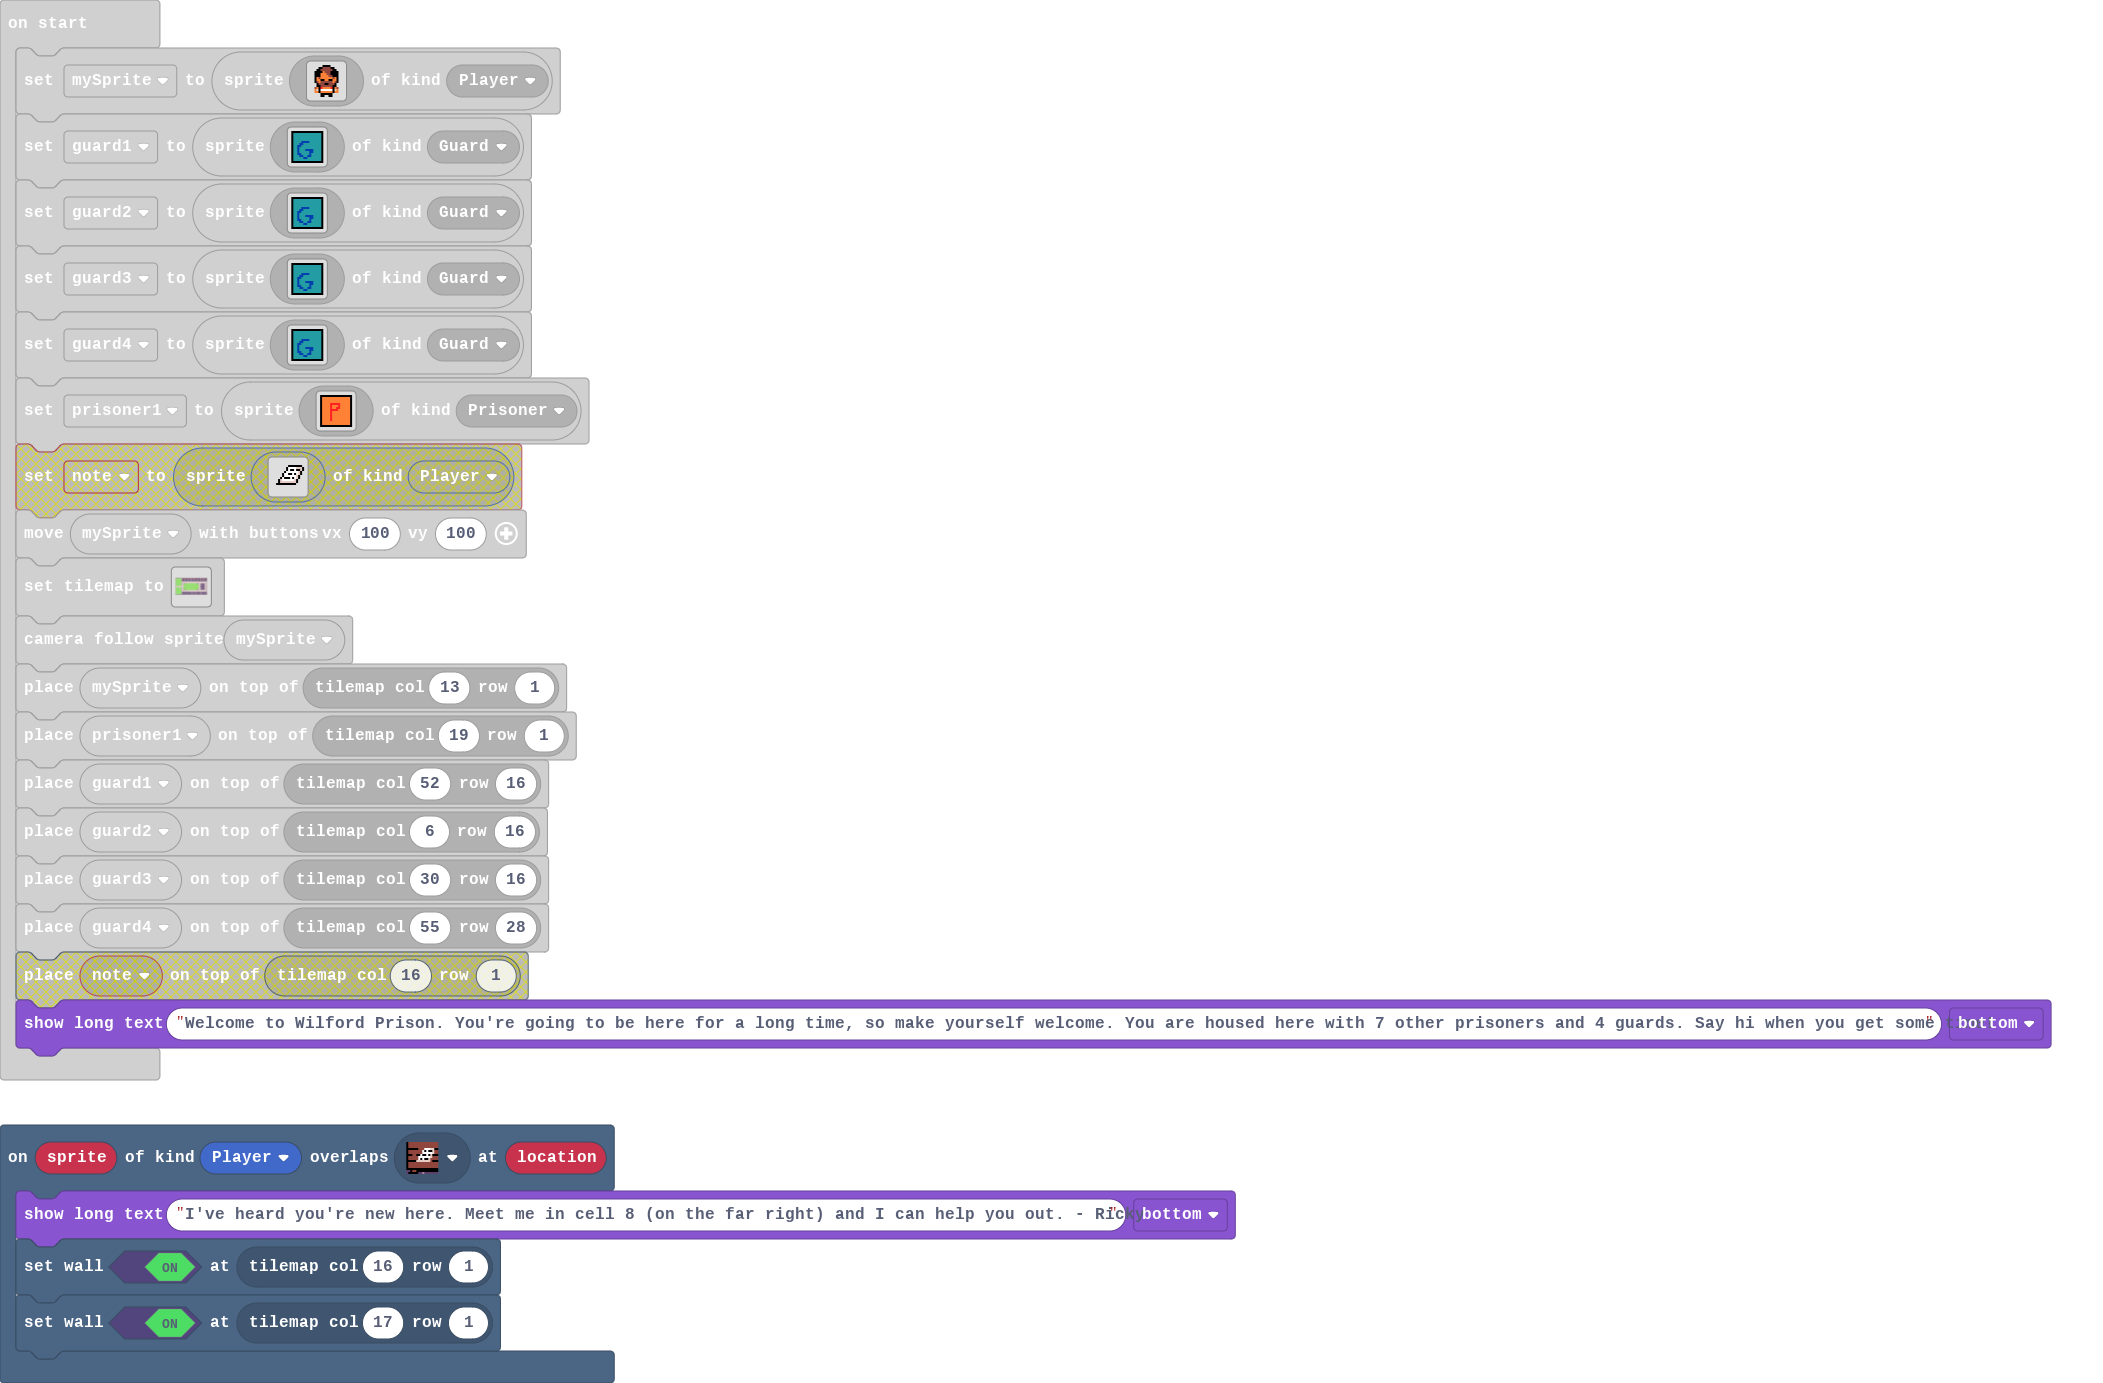
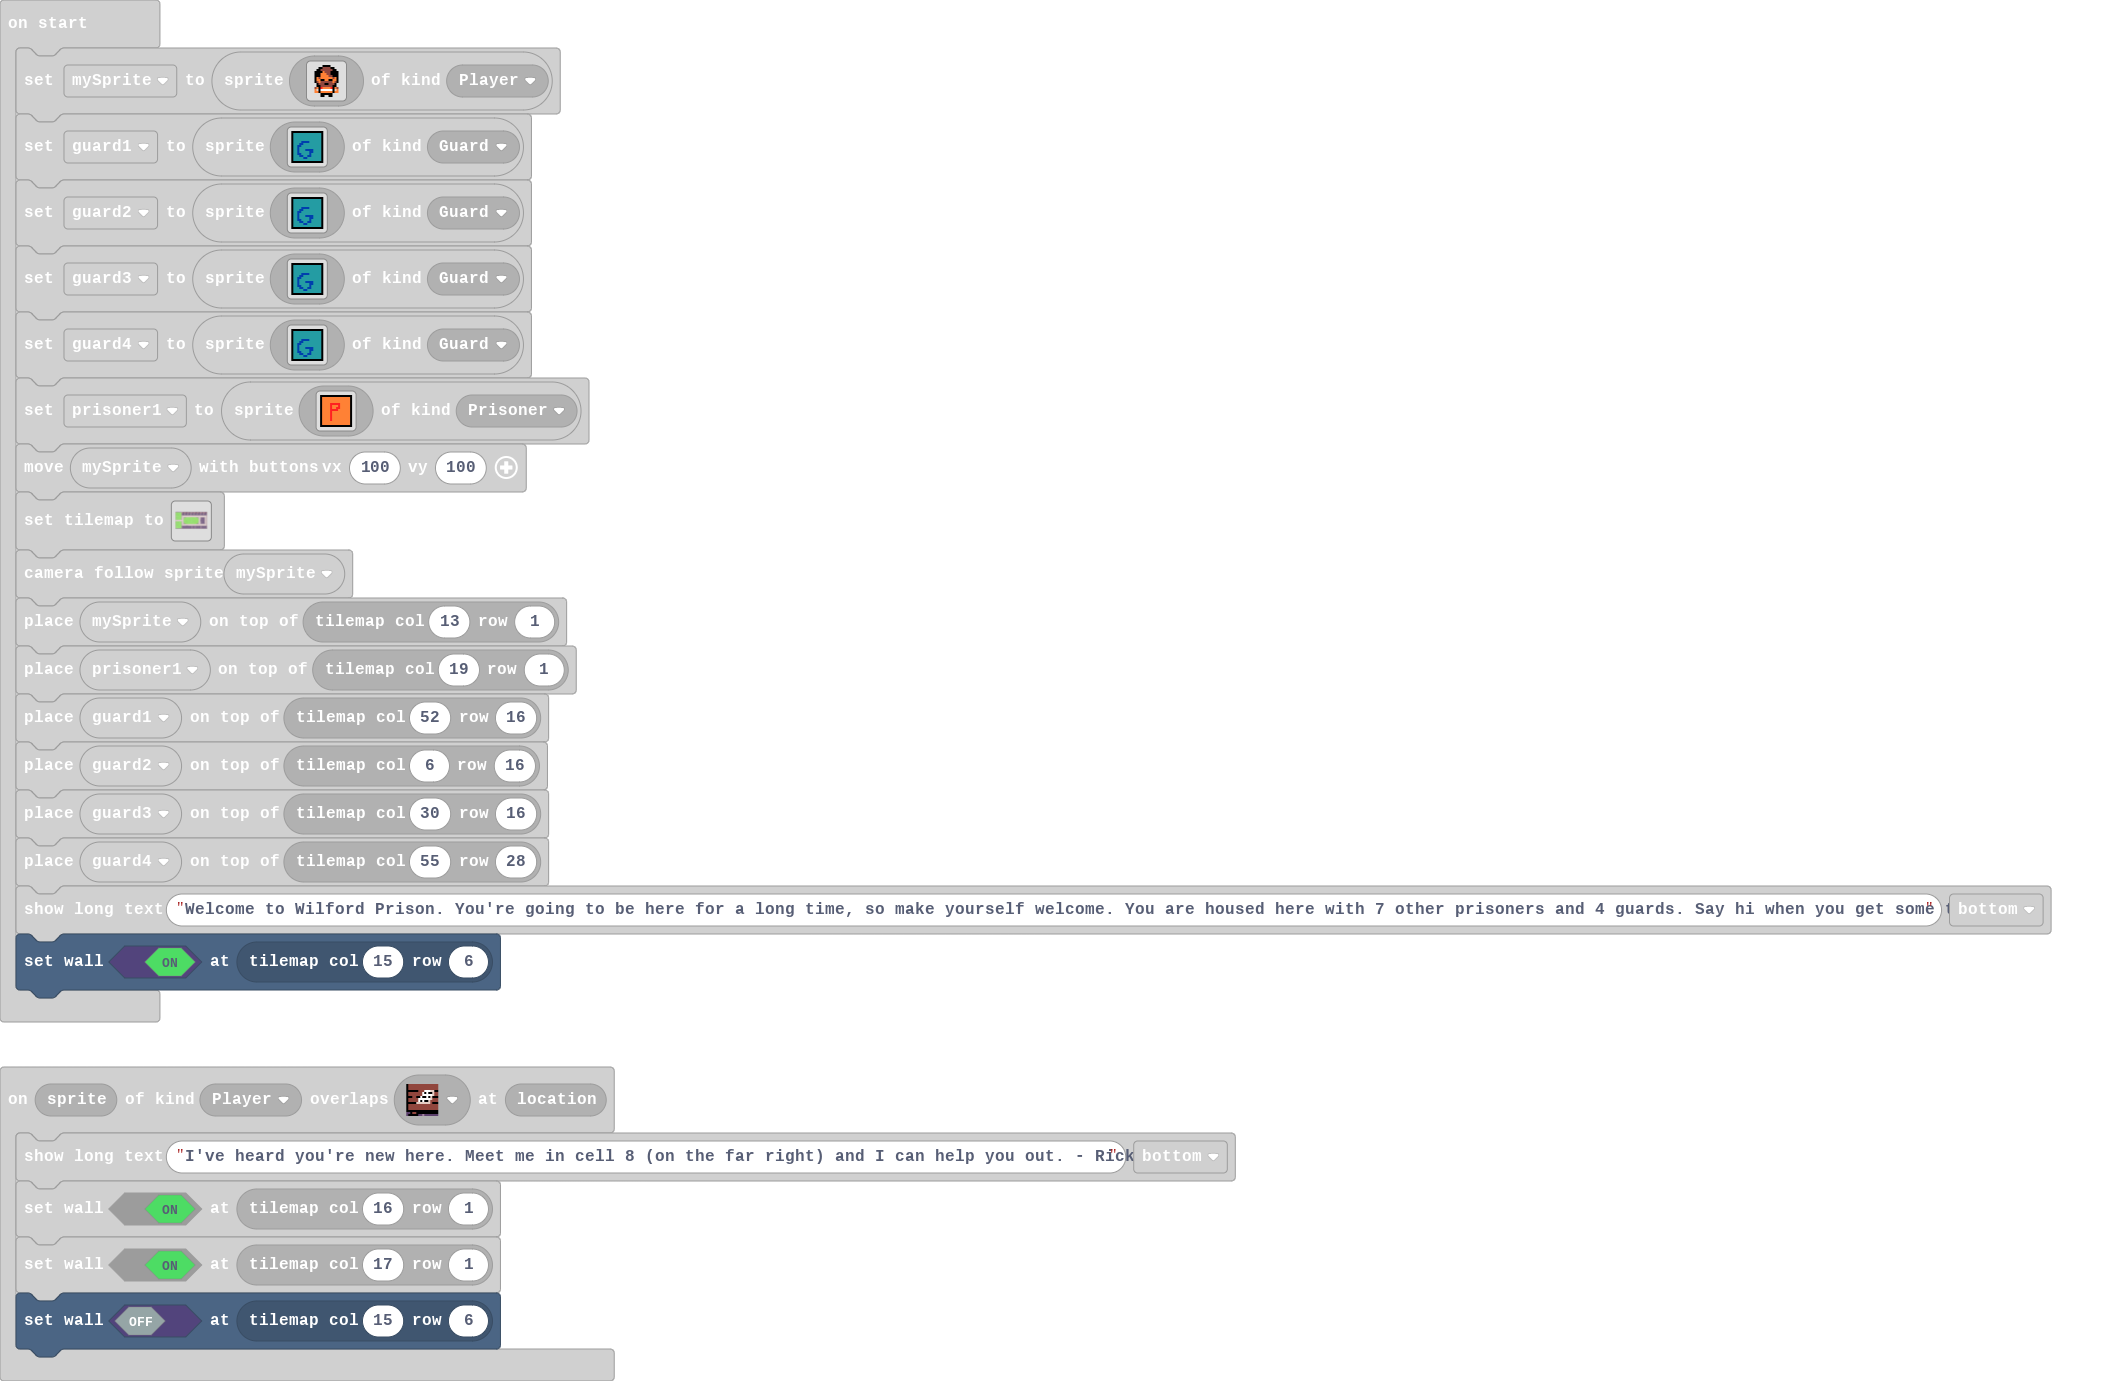
Updates

Changed region(s): [[0.0, 0.3114, 0.9891, 1.0]]

diff --git a/tilemap.g.ts b/tilemap.g.ts
@@ -199,6 +199,25 @@ namespace myTiles {
 . . . . . . . . . . . . . . . . 
 . . . . . . . . . . . . . . . . 
 `, [myTiles.transparency16], TileScale.Sixteen);
+            case "level7":
+            case "level7":return tiles.createTilemap(hex`1000100000000000000000000000000000000000000000000000000000000000000000000000000000000000000000000000000000000000000000000000000000000000000000000000000000000000000000000000000000000000000000000000000000000000000000000000000000000000000000000000000000000000000000000000000000000000000000000000000000000000000000000000000000000000000000000000000000000000000000000000000000000000000000000000000000000000000000000000000000000000000000000000000000000000000000000000000000000000000000000000000000000000000000000000000000000000`, img`
+. . . . . . . . . . . . . . . . 
+. . . . . . . . . . . . . . . . 
+. . . . . . . . . . . . . . . . 
+. . . . . . . . . . . . . . . . 
+. . . . . . . . . . . . . . . . 
+. . . . . . . . . . . . . . . . 
+. . . . . . . . . . . . . . . . 
+. . . . . . . . . . . . . . . . 
+. . . . . . . . . . . . . . . . 
+. . . . . . . . . . . . . . . . 
+. . . . . . . . . . . . . . . . 
+. . . . . . . . . . . . . . . . 
+. . . . . . . . . . . . . . . . 
+. . . . . . . . . . . . . . . . 
+. . . . . . . . . . . . . . . . 
+. . . . . . . . . . . . . . . . 
+`, [myTiles.transparency16], TileScale.Sixteen);
         }
         return null;
     })

diff --git a/main.ts b/main.ts
@@ -124,6 +124,7 @@ scene.onOverlapTile(SpriteKind.Player, assets.tile`myTile29`, function (sprite, 
     game.showLongText("I've heard you're new here. Meet me in cell 8 (on the far right) and I can help you out. - Ricky", DialogLayout.Bottom)
     tiles.setWallAt(tiles.getTileLocation(16, 1), true)
     tiles.setWallAt(tiles.getTileLocation(17, 1), true)
+    tiles.setWallAt(tiles.getTileLocation(15, 6), false)
 })
 controller.right.onEvent(ControllerButtonEvent.Pressed, function () {
     animation.runImageAnimation(
@@ -345,6 +346,7 @@ tiles.placeOnTile(guard2, tiles.getTileLocation(6, 16))
 tiles.placeOnTile(guard3, tiles.getTileLocation(30, 16))
 tiles.placeOnTile(guard4, tiles.getTileLocation(55, 28))
 game.showLongText("Welcome to Wilford Prison. You're going to be here for a long time, so make yourself welcome. You are housed here with 7 other prisoners and 4 guards. Say hi when you get some time!", DialogLayout.Bottom)
+tiles.setWallAt(tiles.getTileLocation(15, 6), true)
 game.onUpdate(function () {
     if (prisoner1.isHittingTile(CollisionDirection.Left)) {
         prisoner1.vx += 50
